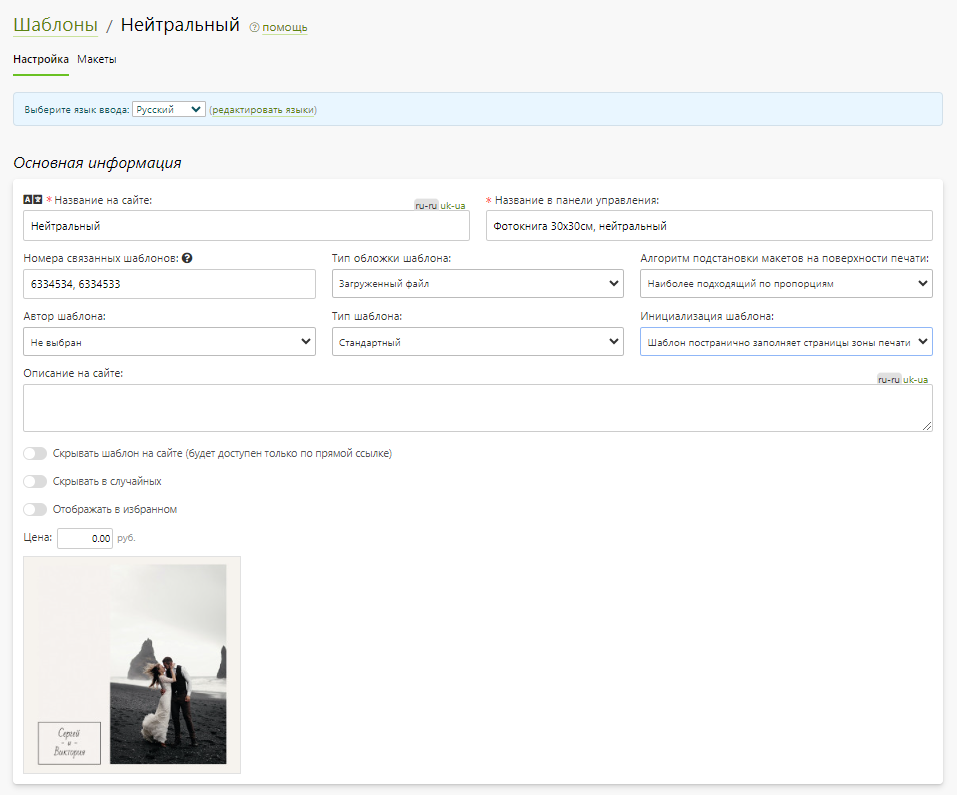
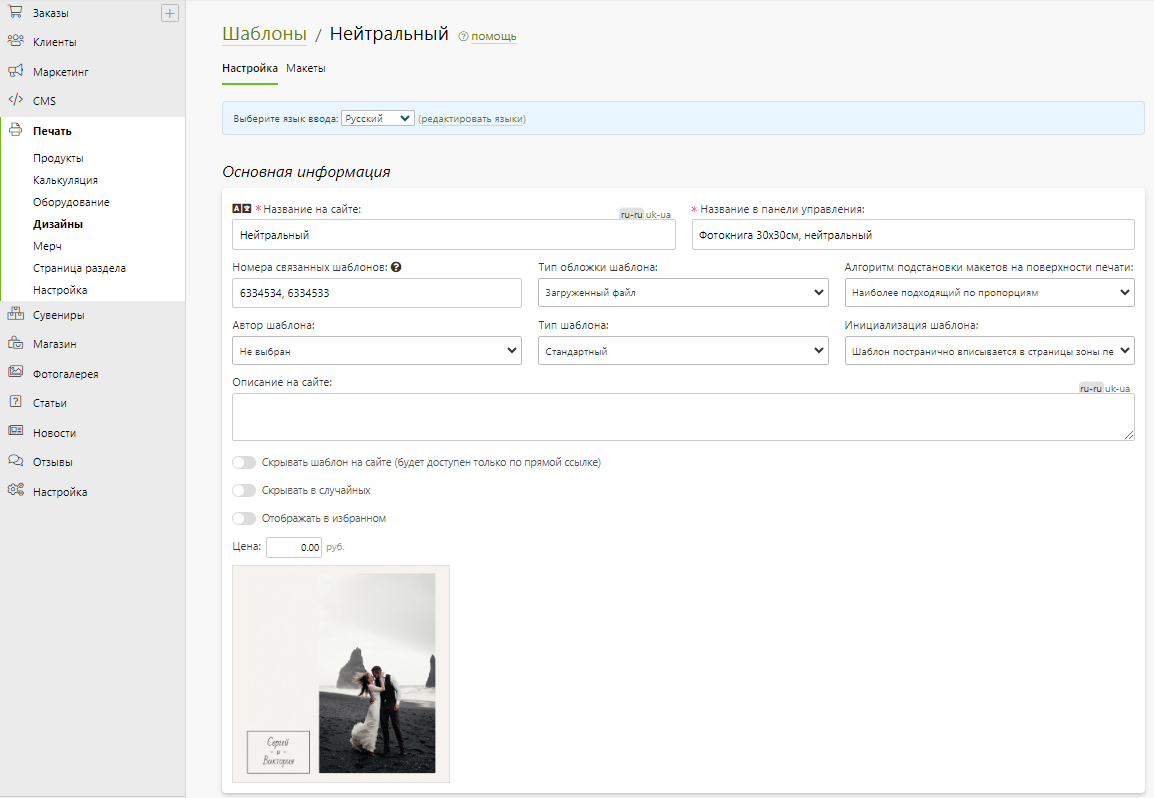
удалила штампы +немного правок в описании клипарт

diff --git a/docs/print/designs.md b/docs/print/designs.md
@@ -3,7 +3,7 @@
 ## Шаблоны
 * __Содержание__
     + [Список шаблонов](/print/designs?id=Список-шаблонов)
-    + [Карточка шаблона](/print/designs?id=Карточка-шаблона)
+    + [Страница шаблона](/print/designs?id=Страница-шаблона)
 
 ### Список шаблонов
 * В данном разделе представлен список шаблонов, которые можно отфильтровать:
@@ -31,7 +31,7 @@
     + Удалить шаблоны.
 ![](../_media/print/templates-action.png)
 
-### Карточка шаблона
+### Страница шаблона
 * __Содержание__
     + [Основная информация](/print/designs?id=Основная-информация)
     + [Печать переменных данных](/print/designs?id=Печать-переменных-данных)
@@ -146,10 +146,24 @@
 
 ## Клипарты
 * __Содержание__
-    + [Карточка клипарта](/print/designs?id=Карточка-клипарта)
     + [Список клипартов](/print/designs?id=Список-клипартов)
+    + [Страница клипарта](/print/designs?id=Страница-клипарта)
 
-### Карточка клипарта
+### Список клипартов
+* В данном разделе представлен список категорий, которые можно отфильтровать:
+    + __По категории__, товары которой имеют связь с какой-либо категорией клипартов.
+    + __По товару__ из выбранной ранее категории, у которого есть связь с какой-либо категорией клипартов.
+    + __По тегу__, который задан у какой-либо категории клипартов.
+* ![](../_media/print/cliparts.png)
+
+* Также на странице можно:
+    + Добавить новую категорию.
+    + Перейти в карточку категории.
+    + Изменить порядок следования категорий на сайте.
+    + Удалить выбранные категории.
+    + Удалить дубликаты категорий.
+
+### Страница клипарта
 * __Содержание__
     + [Основная информация](/print/designs?id=Основная-информация-1)
     + [Теги](/print/designs?id=Теги-1)
@@ -186,20 +200,6 @@
     + Скачать оригинальные изображения.
     + Удалить выбранные изображения.
 * ![](../_media/print/clipart-files.png)
-
-### Список клипартов
-* В данном разделе представлен список категорий, которые можно отфильтровать:
-    + __По категории__, товары которой имеют связь с какой-либо категорией клипартов.
-    + __По товару__ из выбранной ранее категории, у которого есть связь с какой-либо категорией клипартов.
-    + __По тегу__, который задан у какой-либо категории клипартов.
-* ![](../_media/print/cliparts.png)
-
-* Также на странице можно:
-    + Добавить новую категорию.
-    + Перейти в карточку категории.
-    + Изменить порядок следования категорий на сайте.
-    + Удалить выбранные категории.
-    + Удалить дубликаты категорий.
 
 ## Теги
 * Для удобства выбора шаблонов на сайте предусмотрена их тегизация, которая может быть двух типов:

diff --git a/docs/_sidebar.md b/docs/_sidebar.md
@@ -128,7 +128,7 @@
 	- [PSD-шаблоны для фотокниги](/design/photobooks.md)
 	- [PSD-шаблоны для календарей](/design/calendars.md)
 	- [PSD-шаблоны для именных фотокниг](/design/named-photobooks.md)
-	- [PSD-шаблоны для печатей и штампов](/design/stamps.md)
+	<!-- - [PSD-шаблоны для печатей и штампов](/design/stamps.md) -->
 	- [3D-модели для предпросмотра](/design/3d-models.md)
 
 - Калькуляторы
